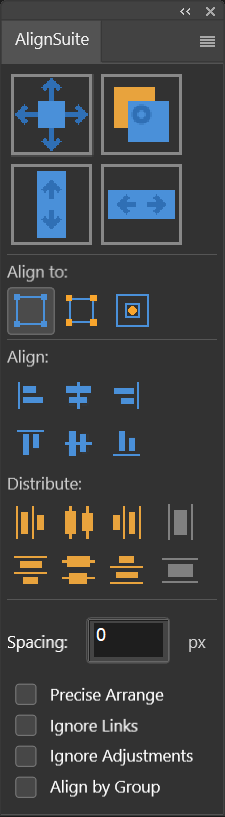
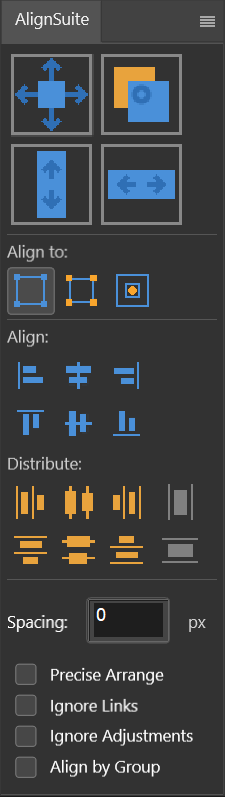
更新README
更新README

diff --git a/README.md b/README.md
@@ -2,7 +2,9 @@
 
 ![Photoshop](https://img.shields.io/badge/Adobe-Photoshop-blue?style=flat-square&logo=adobe-photoshop)	![UXP](https://img.shields.io/badge/Platform-UXP-green?style=flat-square)	![Version](https://img.shields.io/badge/Version-1.0.0-orange?style=flat-square)	![License](https://img.shields.io/badge/License-MIT-lightgrey?style=flat-square)
 
-**AlignSuite** 是一款专业高效的 Adobe Photoshop 扩展工具，采用 UXP 技术构建。面板体积小巧，旨在通过强大的对齐、分布和智能缩放功能，大幅提升您的排版与图层管理效率。
+<img src="PNG/M_zh.png"/><img src="PNG/M_en.png"/><img src="PNG/M_ja.png"/><img src="PNG/M_ko.png"/>
+
+**AlignSuite**是一款专业高效的 Adobe Photoshop 扩展工具，采用 UXP 技术构建。面板体积小巧，旨在通过强大的对齐、分布和智能缩放功能，大幅提升您的排版与图层管理效率。
 
 ## ✨ 核心亮点：顶部四大功能
 
